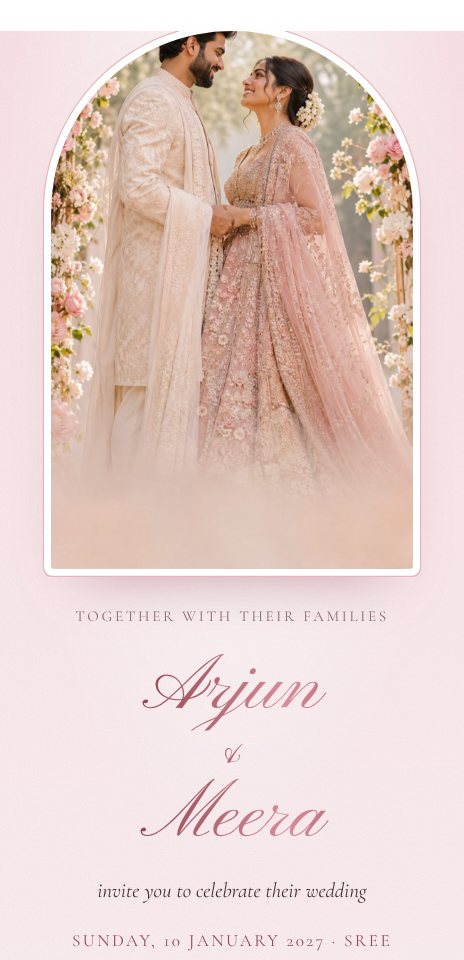
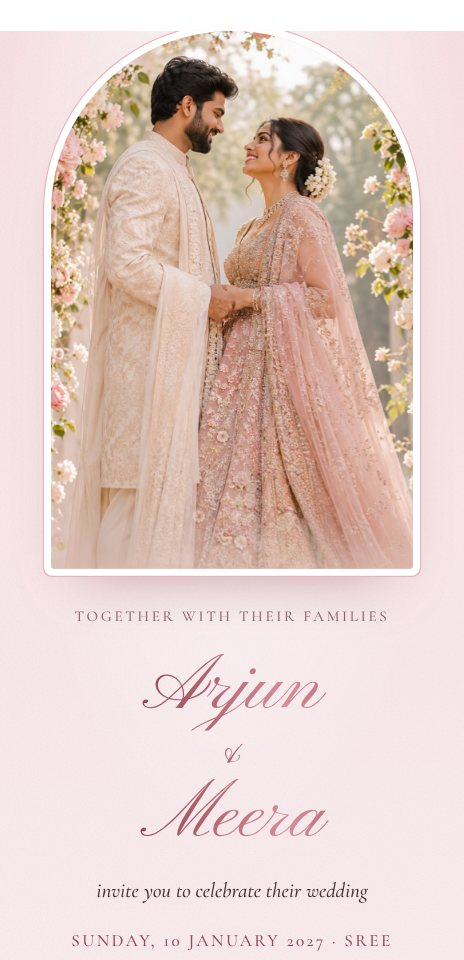
Bloom arch shows the couple without the misty photo bottom; short name-and-price cards on the homepage; new glamour prompts for the four photo-led designs
Claude-Session: https://claude.ai/code/session_01HTLJ5qXdA6w9sojxHduBi6

diff --git a/assets/invite.css b/assets/invite.css
@@ -826,3 +826,5 @@
 .wl-cv .wl-slides img.on { animation: wlKenSoft 9s ease-out both; }
 @keyframes wlKenSoft { from { transform: scale(1.025); } to { transform: scale(1); } }
 .wl-cv-in { margin-top: -80px; }
+/* Bloom: the arch shows the couple, not the soft misty bottom of the photo */
+.wl[data-theme=bloom] .wl-pl-img .wl-slides { bottom: -34%; }

diff --git a/assets/site.css b/assets/site.css
@@ -912,3 +912,4 @@ body:has(.top:not(.tuck)) .dz-bar { top: 64px; }
 }
 /* phones: no photo behind the hero, plain cream so everything reads clearly */
 @media (max-width: 900px) { .lux-hero > .slot, .lux-hero::after { display: none !important; } }
+.grid-six .gd .gd-tags { display: none !important; } .grid-six .gd b { margin-top: 6px; }

diff --git a/lib/slots.php b/lib/slots.php
@@ -28,10 +28,10 @@ const SLOTS = [
 
 /* Photo-led designs: a real couple photo, shown on their design cards and as the first screen until a couple adds their own. */
 const PHOTO_LED_PROMPTS = [
-    'bloom' => 'Romantic portrait of an Indian bride and groom framed by a tall arch of blush roses and white flowers, the bride in a blush-pink lehenga, the groom in an ivory sherwani, smiling at each other, soft daylight, centred composition.',
-    'lumiere' => 'Full-length romantic portrait of an Indian bride and groom walking hand in hand down a garden aisle of white and blush flowers, seen slightly from behind as she looks back over her shoulder, the bride in an ivory and gold lehenga with a long sheer veil, the groom in an ivory sherwani, golden-hour backlight. Keep the bottom third simple and slightly darker so white names can sit on top.',
-    'vogue' => 'High-fashion editorial portrait of an elegant Indian bride and groom standing side by side under a warm stone archway, full length, poised and confident, the bride in a champagne-gold lehenga with statement jewellery, the groom in a tailored ivory bandhgala, soft directional light, magazine-cover look. Keep the top and bottom of the frame simple so titles can sit there.',
-    'journal' => 'Candid, warm photo of a laughing Indian couple sitting close on the steps of a sunlit veranda with pots of white flowers, the bride in a soft pink saree with jasmine in her hair, the groom in a cream kurta, natural and intimate, like a favourite photo from a family album.',
+    'bloom' => 'Glamorous, romantic portrait of a stunning Indian bride and groom under a lush arch overflowing with hot-pink, coral and blush roses, peonies and orchids, the bride in a rich rani-pink and gold lehenga with a deep sweetheart blouse and a sheer dupatta slipping off one shoulder, statement kundan jewellery, the groom in an ivory sherwani with a rose-pink safa, holding her waist and pulling her close, foreheads almost touching, both smiling, glowing skin, vibrant saturated colour, luxury bridal-magazine look, warm golden light. Couple in the top two-thirds, faces fully visible.',
+    'lumiere' => 'Cinematic golden-hour portrait of a gorgeous Indian couple on a palace terrace strung with fairy lights and marigolds, the bride in a fitted emerald-and-gold lehenga with a plunging embellished blouse and a long sheer red veil flying in the wind, bold red lips and kohl eyes, the groom in a midnight-blue velvet bandhgala, his arms around her from behind, his lips near her cheek, she laughs with her head tilted back, sun flare, rich jewel tones, sensual and romantic, high-end fashion film still. Keep the bottom third darker and simple so white names can sit on top.',
+    'vogue' => 'High-fashion Vogue India cover style portrait of a striking Indian bride and groom against a bold saffron and fuchsia backdrop of draped silk, the bride in a sculpted metallic gold sequinned lehenga with a sheer cape and a daring backless blouse, glossy hair, dramatic jewellery, fierce confident pose, the groom in a sharp black tuxedo bandhgala with a gold brooch, standing close behind her, hand on her waist, intense eye contact with the camera, studio lighting, saturated colour, glamorous and seductive. Keep the top and bottom of the frame simple so titles can sit there.',
+    'journal' => 'Candid, joyful photo of a beautiful Indian couple laughing on a colourful veranda full of bougainvillea in magenta and orange, the bride in a vivid parrot-green and pink silk saree with a backless blouse and jasmine in her hair, sitting on the groom\'s lap, his arms wrapped around her, nose to nose, the groom in a mustard-yellow kurta, playful and flirty, sunny afternoon light, warm saturated film colours, like the favourite photo in their album.',
 ];
 
 /* One couple photo per design, for its card on the home and Designs pages. Each matches the design's tradition and colours,

diff --git a/lib/sections.php b/lib/sections.php
@@ -69,8 +69,7 @@ function sec_designs(int $limit = 0): void
               <?php if ($photoLed): ?><em class="feat-tag">Photo-led</em><?php endif; ?>
               <?php if ($fx): ?><em class="feat-tag" title="<?= e($fxNames[$fx]) ?>">Animated</em><?php endif; ?>
             </span>
-            <?php if ($limit): ?><span><?= e($t['note']) ?></span>
-            <small><?= e(implode(', ', array_map(fn($x) => CATEGORIES[$x], $t['tags']))) ?></small><?php else: ?><small class="gd-price"><?= $t['tier'] === 'free' ? 'Free' : '₹' . ($t['tier'] === 'premium' ? $pp : $ps) ?><?= $fx ? '<i>✨ Animated</i>' : ($photoLed ? '<i>Photo-led</i>' : '') ?></small><?php endif; ?>
+            <small class="gd-price"><?= $t['tier'] === 'free' ? 'Free' : '₹' . ($t['tier'] === 'premium' ? $pp : $ps) ?><?= $fx ? '<i>✨ Animated</i>' : ($photoLed ? '<i>Photo-led</i>' : '') ?></small>
           </div>
         <?php endforeach; ?>
       </div>
